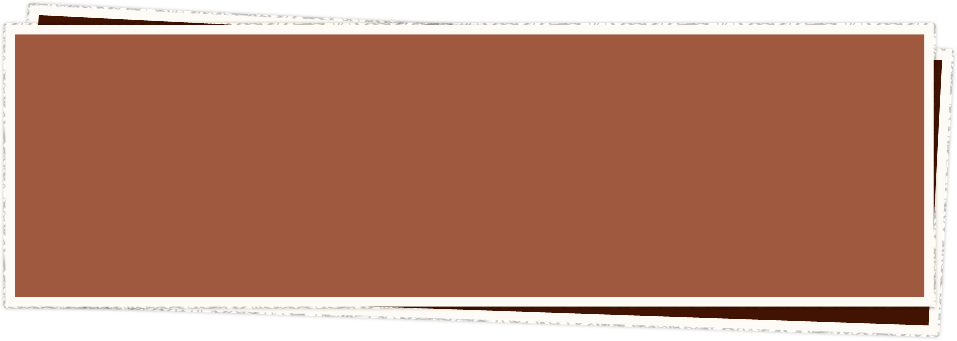
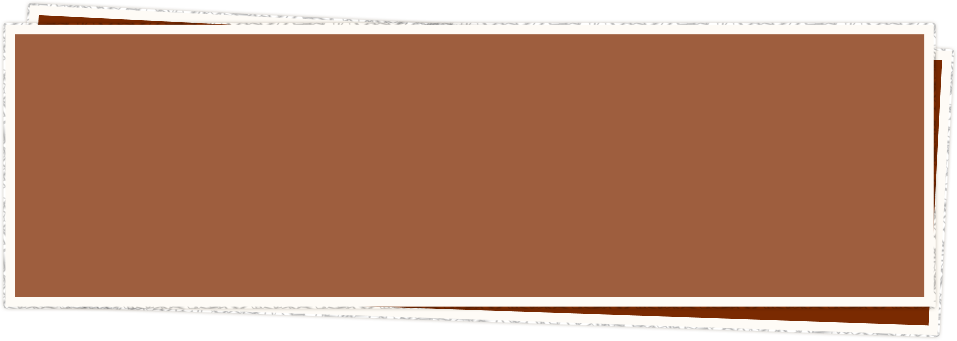
New color scheme

Changed region(s): [[0.3939, 0.8798, 0.9697, 0.9677], [0.9697, 0.176, 1.0, 0.4692], [0.0303, 0.0293, 0.2424, 0.088]]

diff --git a/skin/frontend/default/leopoli/css/style.css b/skin/frontend/default/leopoli/css/style.css
@@ -3,14 +3,12 @@
     padding: 0;
 }
 html {
-    background: #F3ECE6 url(../images/html-bg.png) repeat-x 0 50px;
+    background: #f3debc url(../images/html-bg.jpg) repeat-x 0 50px;
 }
 body {
-    font-size: 12px;
-    font-family: Arial, sans-serif;
-    color: #9d4620;
+    font: 12px/1 Georgia, serif;
+    color: #421701;
     background: url(../images/body-bg.jpg) no-repeat 50% 50px;
-    line-height: 1;
 }
 #wrapper {
     width: 960px;
@@ -18,7 +16,7 @@ body {
 }
 /* UI
    ========================================================================== */
-h1,h2{
+h1,h2 {
     margin: 0;
     font-weight: normal;
 }
@@ -26,17 +24,16 @@ h1,h2{
     font-size: 25px;
     line-height: 26px;
     margin-bottom: 20px;
-    color: #421301;
     font-style: normal;
-    border-bottom: 2px dotted #9e593e;
+    border-bottom: 2px dotted #7a2a01;
     padding-bottom: 5px;
 }
 a {
     text-decoration: none;
-    color: #9d4620;
+    color: #7a2a01;
 }
 a:hover {
-    color: #531a01;
+    color: #421701;
 }
 ul {
     list-style: none;
@@ -45,8 +42,9 @@ img{
     display: block;
 }
 input {
-    border: 1px solid #eee;
+    border: 1px solid #c99479;
     padding: 10px;
+    background: #f9ecd9;
 }
 button {
     padding: 10px;
@@ -70,16 +68,19 @@ button {
   line-height: 50px;
 }
 #quick-access .links {
-    float: right;
+  float: right;
+  font-family: Tahoma, serif;
 }
 #quick-access .links li {
   float: left;
   margin-left: 15px;
 }
 #site-name {
-    font:  italic normal 16px Georgia,serif;
+    font-size: 16px;
+    font-style: italic;
+    font-weight: normal;
     float: left;
-    color: #FDE1D7;
+    color: #c9784f;
     margin-top: 50px;
 }
 #logo {
@@ -88,7 +89,7 @@ button {
     display: block;
 }
 .welcome-msg {
-  font:  italic normal 13px/50px Georgia,serif;   
+  font-style: italic;   
 }
 #search_mini_form {
     float: right;
@@ -105,8 +106,8 @@ button {
     padding-left: 30px;
 }
 #nav .active a {
-    background:url(../images/menu-hover.png) no-repeat 0 0;
-    color: #451401;
+    background: url(../images/menu-hover.png) no-repeat 0 0;
+    color: #421701;
     text-decoration: none
 }
 /* Slider
@@ -144,13 +145,14 @@ button {
 }
 .breadcrumbs {
     margin-bottom: 20px;
+    color: #7a2a01;
 }
 .breadcrumbs li {
     display: inline;
     font-family: Georgia,serif;
 }
 .breadcrumbs a {
-    color: #451401;
+    color: #421701;
 }
 /* Content
    ========================================================================== */
@@ -169,10 +171,10 @@ button {
 /* Tollbar
    ========================================================================== */
 .toolbar {
-    background: #ffedce;
     border: 1px dashed #c1b091;
     border-radius: 3px;
     padding: 10px;
+    box-shadow: 0 0 0 3px #ead0a1 inset;
 }
 .toolbar .pager {
     
@@ -182,7 +184,7 @@ button {
    ========================================================================== */
 .category-image {
     padding: 3px;
-    border: 1px dashed #c1b091;
+    border: 1px dashed  #9d917a;
     border-radius: 3px;
     background: #ead0a1;
     margin-bottom: 20px;
@@ -194,7 +196,7 @@ button {
 .products-grid li {
     float: left;
     margin: 0 0 20px 20px;
-    border-bottom: 2px dotted #9E593E;
+    border-bottom: 2px dotted #7a2a01;
 }
 .product-name {
     font: italic 20px Georgia, serif;
@@ -215,7 +217,7 @@ button {
 .product-image {
     background: #ead0a1;
     padding: 3px;
-    border: 1px dashed #c1b091;
+    border: 1px dashed #9d917a;
     border-radius: 3px;
     display: block;
 }
